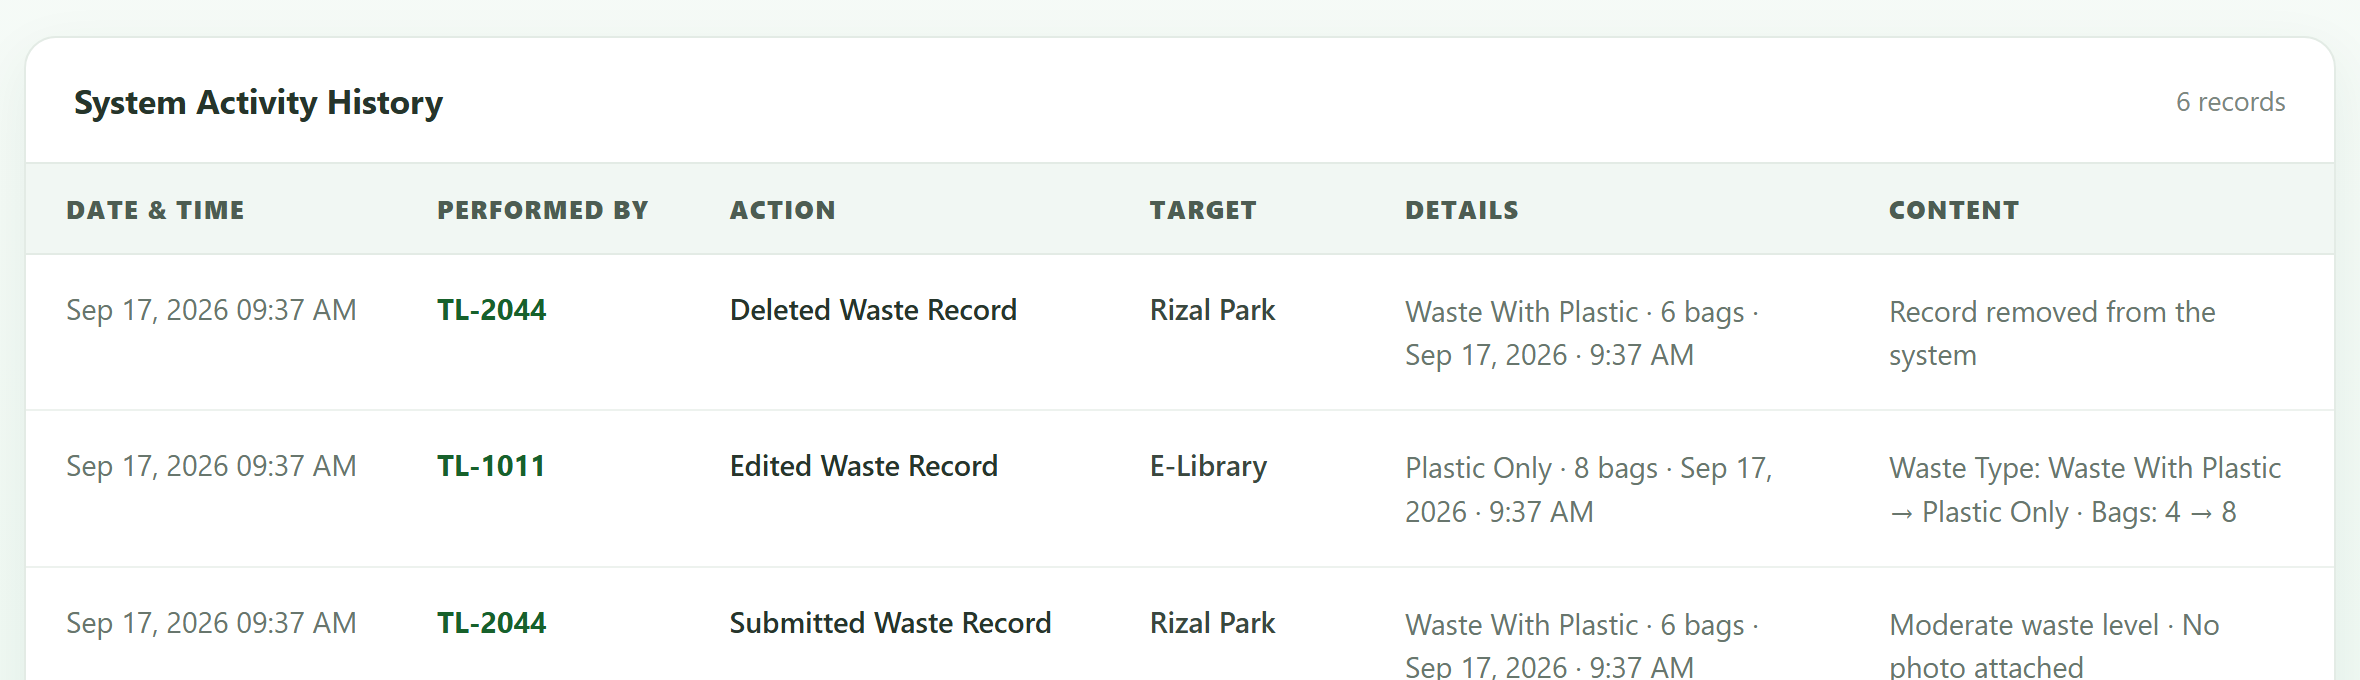
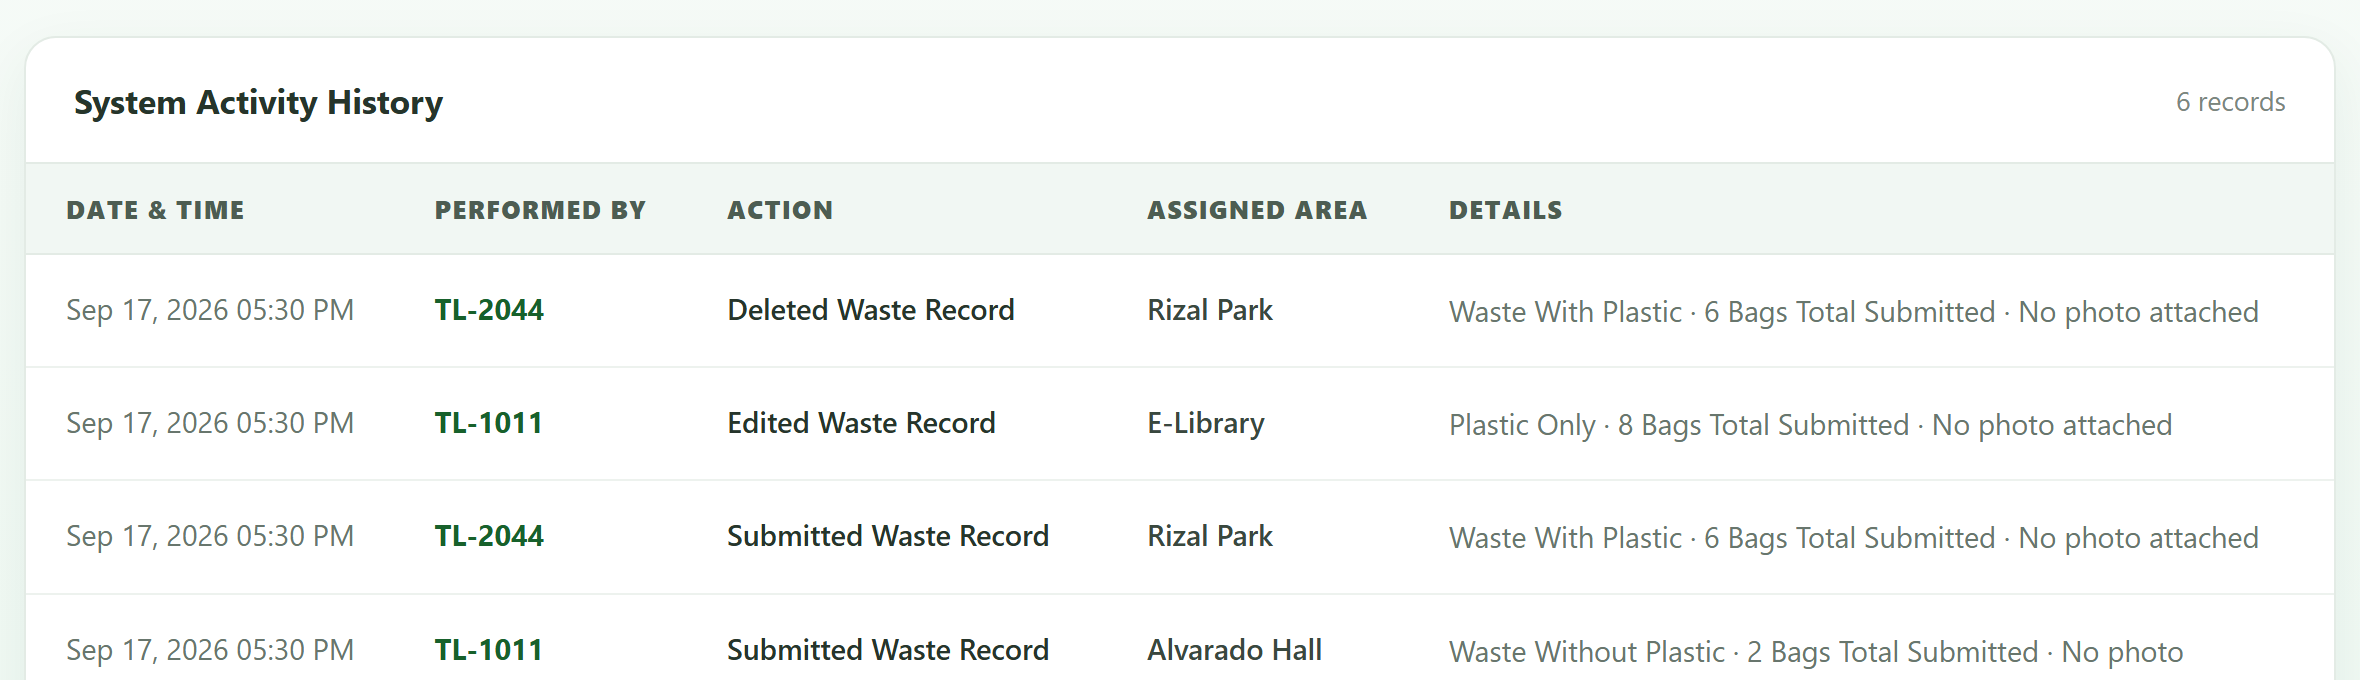
update

diff --git a/records/templates/audit_log.html b/records/templates/audit_log.html
@@ -385,9 +385,11 @@
                                     <th>Date &amp; Time</th>
                                     <th>Performed By</th>
                                     <th>Action</th>
-                                    <th>Target</th>
+                                    <th>{{ target_label }}</th>
                                     <th>Details</th>
-                                    <th>Content</th>
+                                    {% if show_content %}
+                                        <th>Content</th>
+                                    {% endif %}
                                 </tr>
                             </thead>
 
@@ -424,13 +426,15 @@
                                                 N/A
                                             {% endif %}
                                         </td>
-                                        <td class="details-text">
-                                            {% if log.content %}
-                                                {{ log.content }}
-                                            {% else %}
-                                                —
-                                            {% endif %}
-                                        </td>
+                                        {% if show_content %}
+                                            <td class="details-text">
+                                                {% if log.content %}
+                                                    {{ log.content }}
+                                                {% else %}
+                                                    —
+                                                {% endif %}
+                                            </td>
+                                        {% endif %}
 
                                     </tr>
 

diff --git a/records/views.py b/records/views.py
@@ -367,62 +367,38 @@ def aggregate_records(records, reporting_period):
 MANILA_TZ = ZoneInfo('Asia/Manila')
 
 
-def describe_waste_record(record):
-    """One-line summary of a waste record, used as audit log details."""
+def format_submitted_at(record):
+    """Submission date and time of a waste record, in Philippine time."""
 
     submitted_at = record.submitted_at
 
-    if submitted_at:
-        submitted_at = timezone.localtime(submitted_at, MANILA_TZ)
-        submitted_date = submitted_at.strftime('%b %d, %Y')
-        submitted_time = submitted_at.strftime('%I:%M %p').lstrip('0')
-    else:
-        submitted_date = 'Unknown Date'
-        submitted_time = 'Unknown Time'
+    if not submitted_at:
+        return 'Unknown Date', 'Unknown Time'
+
+    submitted_at = timezone.localtime(submitted_at, MANILA_TZ)
 
     return (
-        f"{record.waste_type} · "
-        f"{record.amount} bags · "
-        f"{submitted_date} · "
-        f"{submitted_time}"
+        submitted_at.strftime('%b %d, %Y'),
+        submitted_at.strftime('%I:%M %p').lstrip('0'),
     )
 
 
-def waste_record_fields(record):
-    """Editable values of a waste record, keyed by their display label.
+def describe_waste_record(record):
+    """One-line summary of a waste record, used as audit log details."""
 
-    Comparing two of these dictionaries is how an edit is turned into a
-    readable list of changes for the audit log.
-    """
+    bag_label = 'Bag' if record.amount == 1 else 'Bags'
 
-    return {
-        'Area': str(record.area),
-        'Waste Type': record.waste_type,
-        'Bags': str(record.amount),
-        'Date': record.date.strftime('%b %d, %Y') if record.date else 'N/A',
-        'Time': (
-            record.time.strftime('%I:%M %p').lstrip('0')
-            if record.time
-            else 'N/A'
-        ),
-        'Photo': (
-            record.photo.name.split('/')[-1]
-            if record.photo
-            else 'No photo'
-        ),
-    }
+    photo_note = (
+        'Photo attached'
+        if record.photo
+        else 'No photo attached'
+    )
 
-
-def describe_field_changes(before, after):
-    """Human readable diff of two waste_record_fields() dictionaries."""
-
-    changes = [
-        f"{label}: {value} → {after[label]}"
-        for label, value in before.items()
-        if value != after[label]
-    ]
-
-    return ' · '.join(changes) if changes else 'No changes made'
+    return (
+        f"{record.waste_type} · "
+        f"{record.amount} {bag_label} Total Submitted · "
+        f"{photo_note}"
+    )
 
 
 def build_audit_entries(actions):
@@ -468,18 +444,11 @@ def waste_list(request):
             record.alert_level, _ = get_level_action(record.amount, "daily")
             record.save()
 
-            photo_note = (
-                'Photo attached'
-                if record.photo
-                else 'No photo attached'
-            )
-
             AuditLog.objects.create(
                 performed_by=request.user,
                 action='Submitted Waste Record',
                 target=record.area.area_name,
                 details=describe_waste_record(record),
-                content=f"{record.alert_level} waste level · {photo_note}",
             )
 
             return redirect('waste_list')
@@ -661,9 +630,6 @@ def edit_record(request, pk):
     record = get_object_or_404(WasteRecord, id=pk, user=request.user)
 
     if request.method == 'POST':
-        # Snapshot the record first -- binding the form mutates the instance.
-        previous_fields = waste_record_fields(record)
-
         form = EditWasteForm(request.POST, request.FILES, instance=record)
         if form.is_valid():
             edited_record = form.save(commit=False)
@@ -682,10 +648,6 @@ def edit_record(request, pk):
                 action='Edited Waste Record',
                 target=edited_record.area.area_name,
                 details=describe_waste_record(edited_record),
-                content=describe_field_changes(
-                    previous_fields,
-                    waste_record_fields(edited_record),
-                ),
             )
 
             return redirect('waste_list')
@@ -711,7 +673,6 @@ def delete_record(request, pk):
         action='Deleted Waste Record',
         target=area_name,
         details=details,
-        content='Record removed from the system',
     )
 
     return redirect('waste_list')
@@ -1045,7 +1006,15 @@ def building_status(request):
                     else 'Unknown Area'
                 )
 
-                details = f"{area_name} · {describe_waste_record(report)}"
+                submitted_date, submitted_time = format_submitted_at(report)
+
+                details = (
+                    f"{area_name} · "
+                    f"{report.waste_type} · "
+                    f"{report.amount} bags · "
+                    f"{submitted_date} · "
+                    f"{submitted_time}"
+                )
 
                 feedback = (
                     f"{rating_display} - {comment_display}"
@@ -1216,6 +1185,8 @@ def audit_log(request):
     return render(request, 'audit_log.html', {
         'audit_entries': build_audit_entries(AuditLog.SUPERVISOR_ACTIONS),
         'tracked_role': 'Supervisor',
+        'target_label': 'Target',
+        'show_content': True,
     })
 
 
@@ -1229,6 +1200,8 @@ def janitor_audit_log(request):
     return render(request, 'audit_log.html', {
         'audit_entries': build_audit_entries(AuditLog.JANITOR_ACTIONS),
         'tracked_role': 'Lead Janitor',
+        'target_label': 'Assigned Area',
+        'show_content': False,
     })
 
 

diff --git a/records/tests.py b/records/tests.py
@@ -154,10 +154,12 @@ class JanitorAuditLogTests(TestCase):
         self.assertEqual(log.performed_by, self.janitor)
         self.assertEqual(log.action, 'Submitted Waste Record')
         self.assertEqual(log.target, 'Main Building')
-        self.assertIn('3 bags', log.details)
-        self.assertIn('No photo attached', log.content)
+        self.assertEqual(
+            log.details,
+            'Waste With Plastic · 3 Bags Total Submitted · No photo attached',
+        )
 
-    def test_editing_a_record_logs_the_changed_fields(self):
+    def test_editing_a_record_logs_the_edited_values(self):
         self.client.force_login(self.janitor)
         self.submit_record()
 
@@ -176,9 +178,10 @@ class JanitorAuditLogTests(TestCase):
 
         log = AuditLog.objects.filter(action='Edited Waste Record').get()
         self.assertEqual(log.target, 'E-Library')
-        self.assertIn('Area: Main Building → E-Library', log.content)
-        self.assertIn('Bags: 3 → 7', log.content)
-        self.assertNotIn('Waste Type', log.content)
+        self.assertEqual(
+            log.details,
+            'Waste With Plastic · 7 Bags Total Submitted · No photo attached',
+        )
 
     def test_deleting_a_record_is_logged(self):
         self.client.force_login(self.janitor)
@@ -190,7 +193,7 @@ class JanitorAuditLogTests(TestCase):
         log = AuditLog.objects.filter(action='Deleted Waste Record').get()
         self.assertEqual(log.performed_by, self.janitor)
         self.assertEqual(log.target, 'Main Building')
-        self.assertIn('3 bags', log.details)
+        self.assertIn('3 Bags Total Submitted', log.details)
 
     def test_supervisor_sees_janitor_activity_only(self):
         AuditLog.objects.create(
@@ -212,6 +215,41 @@ class JanitorAuditLogTests(TestCase):
 
         actions = [log.action for log in response.context['audit_entries']]
         self.assertEqual(actions, ['Submitted Waste Record'])
+
+    def test_janitor_log_renames_target_and_drops_the_content_column(self):
+        AuditLog.objects.create(
+            performed_by=self.janitor,
+            action='Submitted Waste Record',
+            target='Main Building',
+        )
+
+        self.client.force_login(self.supervisor)
+
+        html = self.client.get(reverse('janitor_audit_log')).content.decode()
+
+        self.assertIn('<th>Assigned Area</th>', html)
+        self.assertNotIn('<th>Target</th>', html)
+        self.assertNotIn('<th>Content</th>', html)
+
+    def test_head_supervisor_log_keeps_target_and_content(self):
+        head = get_user_model().objects.create_user(
+            username='HSV-0393', password='secret123'
+        )
+        Profile.objects.create(
+            user=head, role='Head Supervisor', employee_id='HSV-0393'
+        )
+        AuditLog.objects.create(
+            performed_by=self.supervisor,
+            action='Sent Advisory Message',
+            target='Main Building',
+            content='Urgent: Critical Waste Level',
+        )
+
+        self.client.force_login(head)
+        html = self.client.get(reverse('audit_log')).content.decode()
+
+        self.assertIn('<th>Target</th>', html)
+        self.assertIn('<th>Content</th>', html)
 
     def test_janitor_cannot_open_the_supervisor_audit_log(self):
         self.client.force_login(self.janitor)
